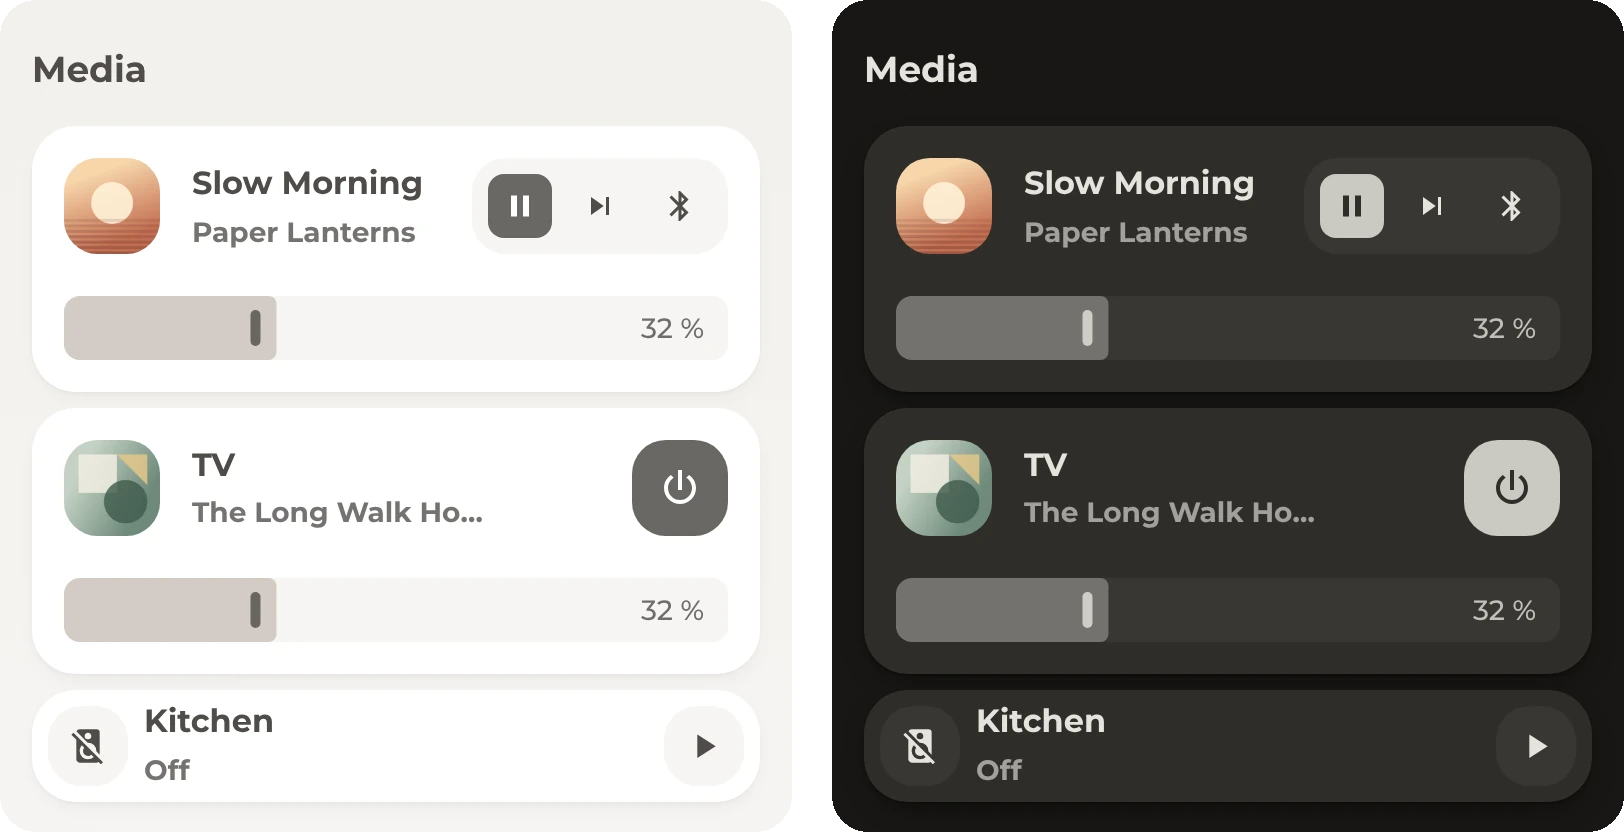
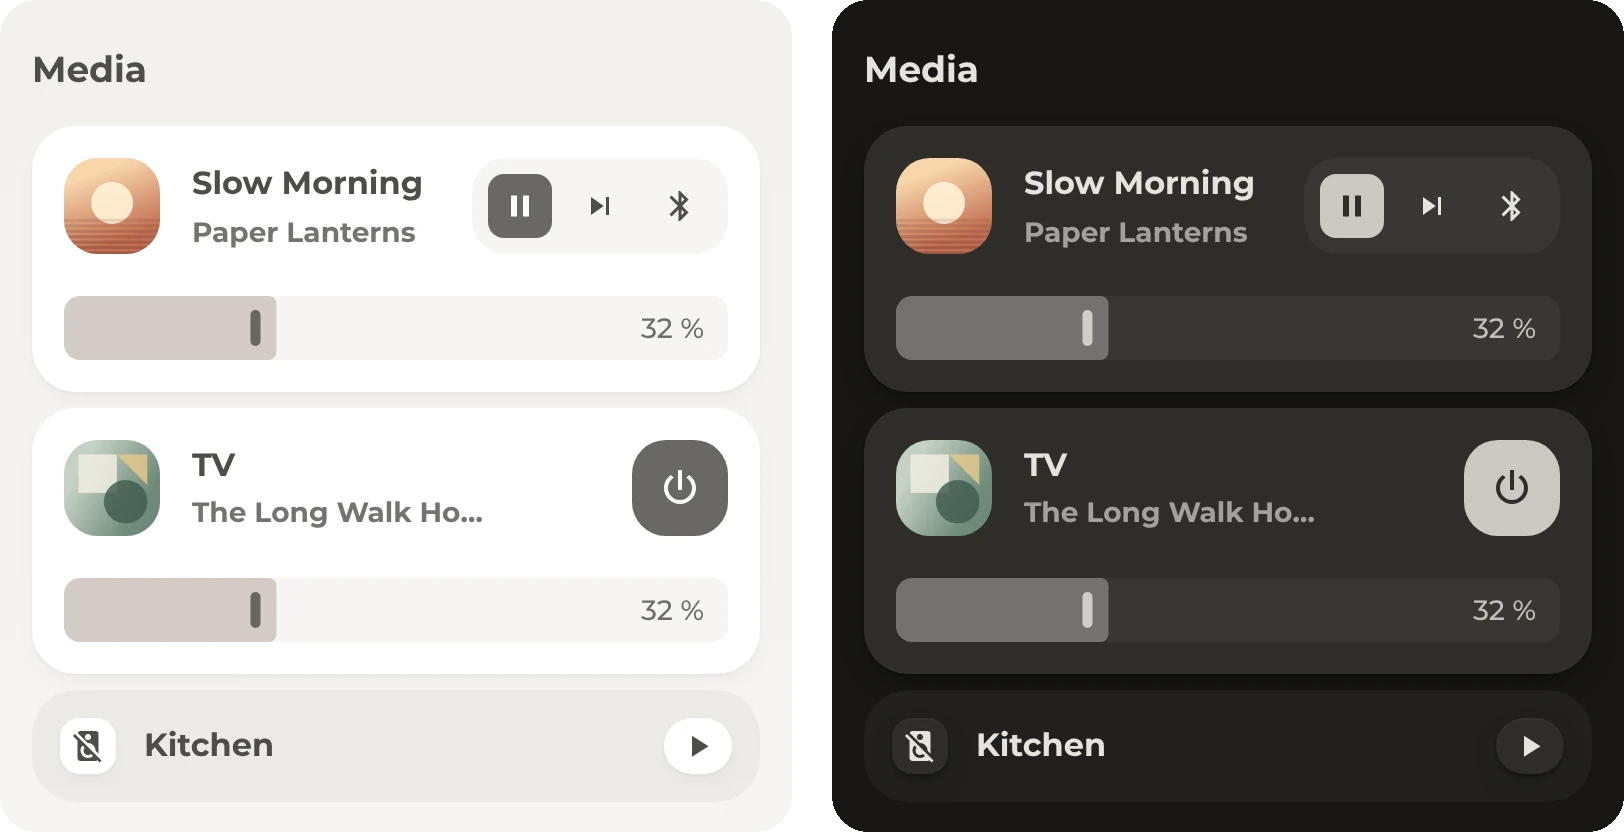
Fix the Media module's compact row
The compact row now uses the same sizes as Base's compact row, hides the
state line and rounds the cover like the smaller icon. The module
reference shows a compact example and says to turn off Bubble Card's
scrolling text on media cards. The Media image is taken again.

Changed region(s): [[0.0, 0.8125, 0.4926, 0.9688], [0.5234, 0.8438, 0.6773, 0.9375], [0.9236, 0.875, 0.9852, 0.9688]]

diff --git a/bubble_card/README.md b/bubble_card/README.md
@@ -323,12 +323,12 @@ The Media options go under `origami_media:`.
 
 | Option | Description |
 | --- | --- |
-| `compact` | A slim row. On media cards, use this option instead of Base's `compact` option. |
+| `compact` | A slim row like Base's compact row, without the state line. On media cards, use this option instead of Base's `compact` option. |
 | `collapse` | The slider at the bottom is hidden while the speaker is not playing. It stays visible while the speaker is on or uses Bluetooth or the optical input. In TV mode, it is hidden while the TV is off. |
 | `art_entity` | A media player that adds the title, the app and a picture while it is playing, such as a Chromecast |
 | `app_entity` | A media player that reports the running app, such as Android TV Remote. The card also uses this entity when its own entity is unavailable. |
 
-Either of the last two options turns on TV mode.
+Either of the last two options turns on TV mode. Set `scrolling_effect: false` on media cards. Otherwise, Bubble Card's scrolling text can replace the text that the module writes.
 
 ```yaml
 type: custom:bubble-card
@@ -370,6 +370,7 @@ sub_button:
       always_visible: true
 rows: '2.2'
 state_content: state
+scrolling_effect: false
 ```
 
 ```yaml
@@ -377,6 +378,15 @@ state_content: state
 origami_media:
   art_entity: media_player.tv_cast
   app_entity: media_player.tv_remote
+```
+
+```yaml
+# Compact row, like the kitchen speaker in the picture
+origami_base:
+  tile: true
+origami_media:
+  compact: true
+rows: 1
 ```
 
 The module was written for LinkPlay speakers. In speaker mode, the cover comes from the LinkPlay sensor `sensor.linkplay_<name>`, and group members show their group leader's state. The state of `sensor.linkplay_master` is the group leader's entity ID. The icon is hidden while `media_player.<name>_dlna` has a picture and reports DLNA as its source. The icon stays visible while the speaker itself has a picture or uses the optical input. The code shortens a few speaker names in a list called `names`. Replace these names with your own.
